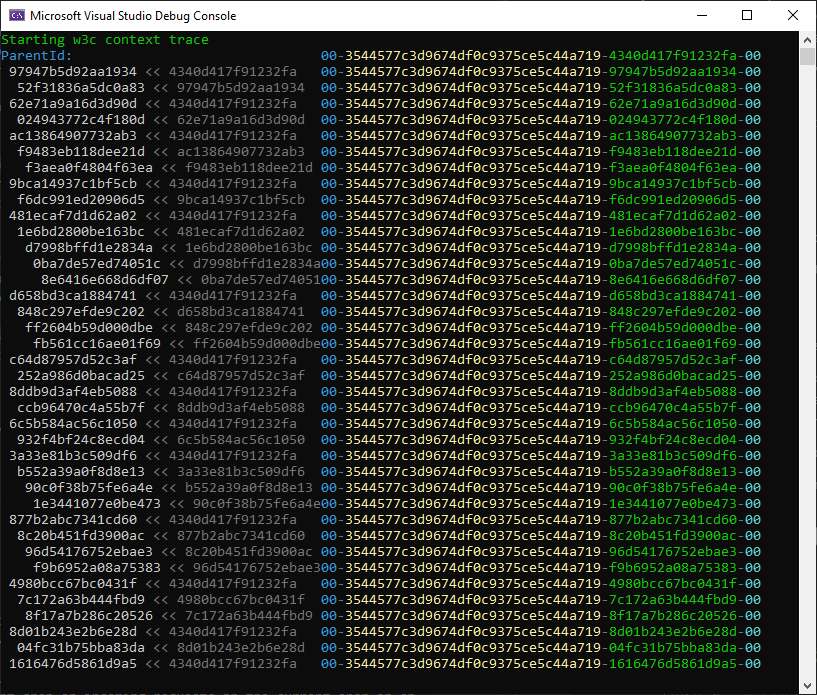
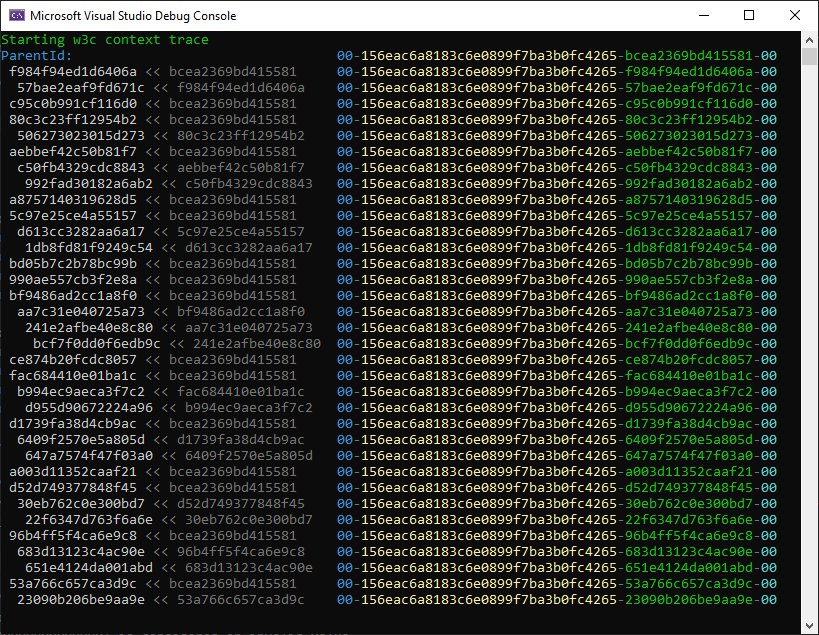
clean up rendering

diff --git a/src/w3c-dotnet/w3c-dotnet/Program.cs b/src/w3c-dotnet/w3c-dotnet/Program.cs
@@ -8,7 +8,7 @@ ConsoleColor.Green.WriteLine($"Starting w3c context trace");
 
 ConsoleColor.DarkCyan.Write($"ParentId:\t");
 var cursorPosition = Console.GetCursorPosition();
-Console.SetCursorPosition(50, cursorPosition.Top);
+Console.SetCursorPosition(42, cursorPosition.Top);
 PrintActivitySegments(activity: upstreamActivity);
 
 var rnd = new Random().Next(3, 20);
@@ -46,7 +46,7 @@ void PrintActivitySegments(Activity activity)
     
     var activitySegment = activity.Id.Split("-");
     var cursorPosition = Console.GetCursorPosition();
-    Console.SetCursorPosition(40, cursorPosition.Top);
+    Console.SetCursorPosition(42, cursorPosition.Top);
     ConsoleColor.DarkCyan.Write(activitySegment[0]);
     ConsoleColor.DarkGray.Write("-");
     ConsoleColor.Yellow.Write(activitySegment[1]);
